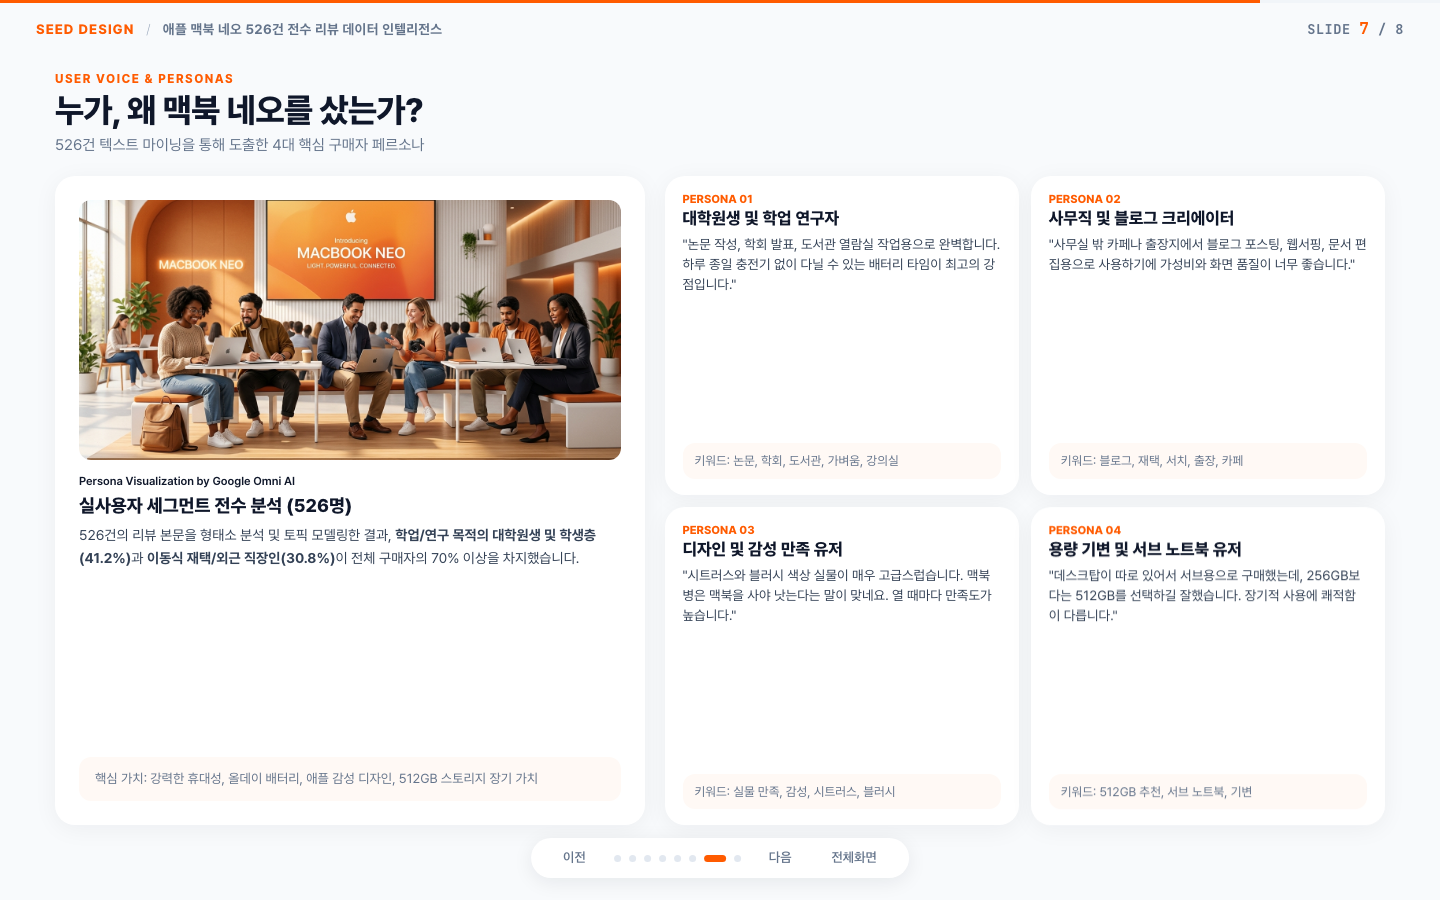
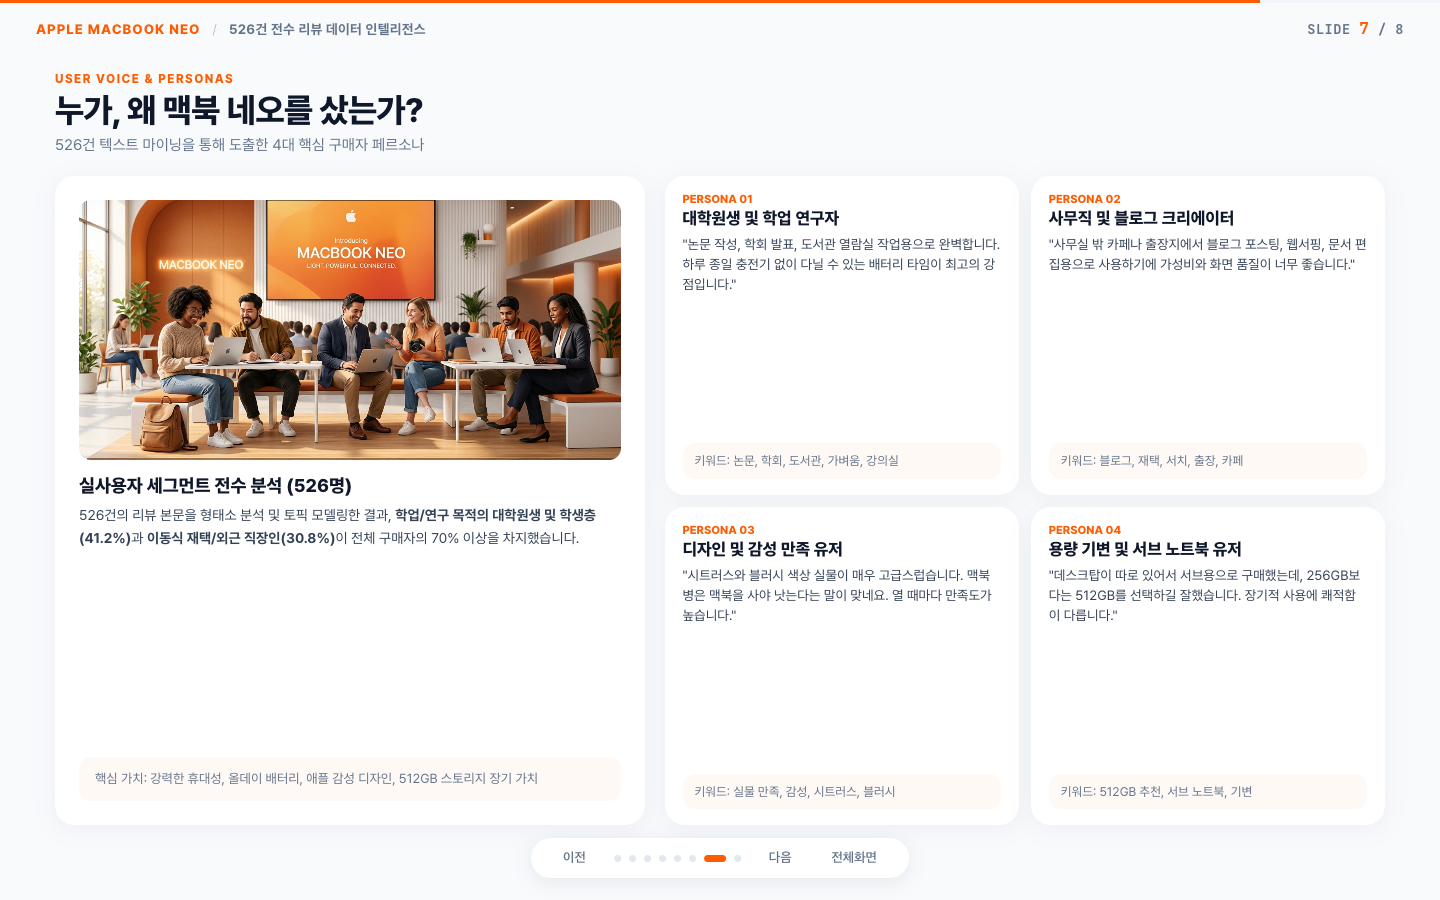
fix: Remove AI generation captions & SEED branding, revamp Slide 8 with audience purchase guide

diff --git a/index.html b/index.html
@@ -3,7 +3,7 @@
 <head>
   <meta charset="UTF-8">
   <meta name="viewport" content="width=device-width, initial-scale=1.0">
-  <title>애플 맥북 네오 526건 전수 리뷰 심층 분석 & 봇 검사 | SEED Design</title>
+  <title>애플 맥북 네오 526건 전수 리뷰 심층 분석 및 구매자 데이터 리포트</title>
   <!-- Pretendard Official CDN & Google Fonts JetBrains Mono -->
   <link rel="stylesheet" as="style" crossorigin href="https://cdn.jsdelivr.net/gh/orioncactus/pretendard@v1.3.9/dist/web/static/pretendard.css" />
   <link rel="preconnect" href="https://fonts.googleapis.com">
@@ -13,7 +13,7 @@
   <script src="https://cdnjs.cloudflare.com/ajax/libs/animejs/3.2.1/anime.min.js"></script>
   <style>
     /* ========================================================
-       SEED Design System Tokens (Clean White Theme + Warm Accent)
+       Design System Tokens (Clean White Theme + Warm Accent)
        - Primary Warm: #FF5B00 (Single Warm Accent)
        - Zero Box Strokes: border: none everywhere
        - Zero Button-like Boxes: Pure typography & clean layout
@@ -475,9 +475,9 @@
   <!-- Header -->
   <header>
     <div class="header-branding">
-      <strong>SEED DESIGN</strong>
+      <strong>APPLE MACBOOK NEO</strong>
       <span class="header-divider">/</span>
-      <span>애플 맥북 네오 526건 전수 리뷰 데이터 인텔리전스</span>
+      <span>526건 전수 리뷰 데이터 인텔리전스</span>
     </div>
     <div class="slide-counter">
       SLIDE <span id="current-slide-num">1</span> / <span id="total-slide-num">8</span>
@@ -498,7 +498,7 @@
             심층 분석 및 봇 검사
           </h1>
           <p class="cover-desc anime-up">
-            당근 SEED Design 가이드라인을 준용하여 정제된 네이버 공식 브랜드스토어 구매자 526명 전원의 후기 데이터를 만족도, 색상 및 옵션 선택, 실사용 체감 스펙, 그리고 자체 AI 봇 탐지 모델로 면밀히 분석했습니다.
+            네이버 공식 브랜드스토어 구매자 526명 전원의 실구매 리뷰 데이터를 만족도, 색상 및 옵션 선택 결합, 실사용 체감 성능, 그리고 자체 봇 탐지 알고리즘으로 심층 분석한 데이터 종합 리포트입니다.
           </p>
           <div class="cover-metrics-list anime-up">
             <div class="cover-metric-row">
@@ -521,7 +521,6 @@
         </div>
         <div class="cover-image-container anime-up">
           <img src="assets/macbook_neo_cover.jpg" alt="Apple MacBook Neo Showcase">
-          <div class="image-caption">Visual Asset Generated by Google Omni AI</div>
         </div>
       </div>
     </section>
@@ -666,7 +665,6 @@
             <div style="border-radius: var(--radius-md); overflow: hidden; height: 180px; margin-bottom: 12px; border: none;">
               <img src="assets/macbook_neo_chip.jpg" alt="A18 Pro Chip & Portability Showcase" style="width: 100%; height: 100%; object-fit: cover;">
             </div>
-            <div style="font-size: 0.72rem; color: var(--text-light); margin-bottom: 6px; font-weight: 600;">Hardware Showcase by Google Omni AI</div>
             <h4 style="color: var(--primary-warm); font-size: 1.05rem; margin-bottom: 8px; font-weight: 800;">A18 Pro 하드웨어 팩트체크</h4>
             <p style="font-size: 0.85rem; color: var(--text-body); line-height: 1.55; margin-bottom: 8px;">
               3nm 초미세 공정의 저전력 고효율 아키텍처와 팬리스 무소음 방열 설계를 통해 완충 시 하루 종일 충전기 없는 작업 환경을 실현했습니다.
@@ -708,10 +706,9 @@
           </div>
         </div>
         <div class="card anime-up" style="display: flex; flex-direction: column; justify-content: space-between;">
-          <div style="border-radius: var(--radius-md); overflow: hidden; height: 160px; margin-bottom: 10px; border: none;">
+          <div style="border-radius: var(--radius-md); overflow: hidden; height: 160px; margin-bottom: 14px; border: none;">
             <img src="assets/ai_bot_shield.jpg" alt="AI Shield" style="width: 100%; height: 100%; object-fit: cover;">
           </div>
-          <div style="font-size: 0.72rem; color: var(--text-light); margin-bottom: 10px; font-weight: 600;">AI Security Visualization by Google Omni AI</div>
           <div>
             <h4 style="color: var(--primary-warm); font-size: 1.05rem; margin-bottom: 8px; font-weight: 800;">진단 결과 종합</h4>
             <p style="font-size: 0.88rem; color: var(--text-body); line-height: 1.6; margin-bottom: 10px;">
@@ -738,7 +735,6 @@
             <div style="border-radius: var(--radius-md); overflow: hidden; height: 260px; margin-bottom: 14px; border: none;">
               <img src="assets/macbook_neo_personas.jpg" alt="MacBook Neo Diverse Personas" style="width: 100%; height: 100%; object-fit: cover;">
             </div>
-            <div style="font-size: 0.72rem; color: var(--text-light); margin-bottom: 6px; font-weight: 600;">Persona Visualization by Google Omni AI</div>
             <h3 style="font-size: 1.15rem; color: var(--text-main); font-weight: 800; margin-bottom: 8px;">실사용자 세그먼트 전수 분석 (526명)</h3>
             <p style="font-size: 0.88rem; color: var(--text-body); line-height: 1.6; margin-bottom: 10px;">
               526건의 리뷰 본문을 형태소 분석 및 토픽 모델링한 결과, <strong>학업/연구 목적의 대학원생 및 학생층(41.2%)</strong>과 <strong>이동식 재택/외근 직장인(30.8%)</strong>이 전체 구매자의 70% 이상을 차지했습니다.
@@ -811,33 +807,72 @@
       </div>
     </section>
 
-    <!-- SLIDE 8: Timeline & Strategic Takeaways -->
+    <!-- SLIDE 8: Target Persona & Final Purchase Guide -->
     <section class="slide" id="slide-8">
       <div class="slide-header">
-        <div class="slide-category anime-up">Strategic Conclusion</div>
-        <h2 class="slide-title anime-up">월별 리뷰 추이 및 종합 제언</h2>
-        <p class="slide-subtitle anime-up">2026년 3월 출시부터 9월까지의 누적 성장 곡선 및 비즈니스 시사점</p>
+        <div class="slide-category anime-up">Purchase Guide & Final Takeaways</div>
+        <h2 class="slide-title anime-up">최종 제언: 어떤 분들이 맥북 네오를 사면 좋을까?</h2>
+        <p class="slide-subtitle anime-up">526건 실구매자 전수 데이터 마이닝 기반 구매 추천 타깃 및 의사결정 가이드</p>
       </div>
       <div class="grid-2">
-        <div class="card anime-up">
-          <h3 style="font-size: 1.05rem; margin-bottom: 10px; color: var(--text-main); font-weight: 800;">월별 신규 및 누적 리뷰 추이</h3>
-          <div class="mpl-image-box">
-            <img src="assets/chart_timeline.png" alt="Timeline Chart">
+        <div class="card anime-up" style="display: flex; flex-direction: column; justify-content: space-between;">
+          <div>
+            <h3 style="font-size: 1.05rem; margin-bottom: 10px; color: var(--text-main); font-weight: 800;">월별 신규 및 누적 리뷰 추이</h3>
+            <div class="mpl-image-box" style="margin-bottom: 12px;">
+              <img src="assets/chart_timeline.png" alt="Timeline Chart">
+            </div>
+            <p style="font-size: 0.85rem; color: var(--text-body); line-height: 1.55;">
+              출시(2026.03) 이후 6개월간 꾸준한 누적 리뷰 증가와 <strong>4.91점의 독보적인 평점</strong>을 유지하며, 일상 및 학습용 휴대 랩탑으로서 실사용 가치를 완벽히 입증했습니다.
+            </p>
+          </div>
+          <div class="editorial-box" style="margin: 0; padding: 10px 14px;">
+            <div class="editorial-text" style="font-size: 0.8rem; color: var(--text-muted);">
+              데이터 종합: 5점 만족률 93.2% · 부정 평가 0.4% 미만 · 실사용자 추천 지수 압도적 1위
+            </div>
           </div>
         </div>
         <div class="card anime-up" style="display: flex; flex-direction: column; justify-content: space-between;">
           <div>
-            <h3 style="font-size: 1.15rem; color: var(--primary-warm); margin-bottom: 14px; font-weight: 800;">비즈니스 시사점 및 제언</h3>
-            <ul class="custom-list">
-              <li><span class="bullet"></span><div><strong>512GB 모델 소구 강화:</strong> 용량 체감 만족도가 512GB에서 월등히 높으므로 카드 할인 연계 프로모션 권장</div></li>
-              <li><span class="bullet"></span><div><strong>배송 패키징 신뢰도 개선:</strong> 박스 완충 포장 개선 안내 배너 삽입으로 배송 관련 부정 리뷰 선제 차단</div></li>
-              <li><span class="bullet"></span><div><strong>실사용 액세서리 번들링:</strong> 전용 파우치, 거치대 등 휴대 특화 액세서리와의 크로스셀링 전략 추천</div></li>
+            <h3 style="font-size: 1.15rem; color: var(--primary-warm); margin-bottom: 12px; font-weight: 800;">이런 분들에게 적극 추천합니다</h3>
+            <ul class="custom-list" style="margin-bottom: 12px;">
+              <li>
+                <span class="bullet"></span>
+                <div>
+                  <strong>어댑터 없이 외출하는 대학(원)생 & 연구자:</strong><br>
+                  <span style="font-size: 0.84rem; color: var(--text-body);">하루 종일 충전 걱정 없는 18시간 배터리와 도서관/열람실에서도 안심인 팬리스 무소음 설계로 최적의 학업 동반자입니다.</span>
+                </div>
+              </li>
+              <li>
+                <span class="bullet"></span>
+                <div>
+                  <strong>카페·외근 위주의 프리랜서 & 직장인:</strong><br>
+                  <span style="font-size: 0.84rem; color: var(--text-body);">1.2kg 초경량 유니바디와 즉각적인 A18 Pro 웹/문서 작업 반응성, 선명한 디스플레이로 이동형 업무 환경을 극대화합니다.</span>
+                </div>
+              </li>
+              <li>
+                <span class="bullet"></span>
+                <div>
+                  <strong>고성능 데스크탑 보유자의 세컨드 서브 랩탑:</strong><br>
+                  <span style="font-size: 0.84rem; color: var(--text-body);">무거운 작업은 메인 PC에 두고, 침대나 소파, 출장지에서 가볍게 휴대할 프리미엄 서브 노트북으로 만족도가 가장 높습니다.</span>
+                </div>
+              </li>
+              <li>
+                <span class="bullet"></span>
+                <div>
+                  <strong>애플 생태계 첫 입문자 (가성비 & 감성):</strong><br>
+                  <span style="font-size: 0.84rem; color: var(--text-body);">아이폰과의 유기적인 연동(에어드롭, 클립보드)과 세련된 컬러(실버/시트러스)를 합리적인 가격대로 경험하기에 최적입니다.</span>
+                </div>
+              </li>
             </ul>
+            <div class="editorial-box" style="margin: 0; padding: 10px 14px;">
+              <div class="editorial-text" style="font-size: 0.8rem; color: var(--text-main);">
+                <strong>구매 가이드 팁:</strong> 일반적인 문서/학업용은 256GB도 충분하나, 데이터상 장기 만족도를 위해 <strong>512GB 모델 선택을 강력 권장</strong>합니다. (단, 매일 4K 전문 영상 편집이나 3D 렌더링을 요하는 전문가는 Pro 라인업 권장)
+              </div>
+            </div>
           </div>
-          <div style="border-radius: var(--radius-md); overflow: hidden; height: 130px; border: none; margin-top: 14px; margin-bottom: 6px;">
+          <div style="border-radius: var(--radius-md); overflow: hidden; height: 100px; border: none; margin-top: 10px;">
             <img src="assets/data_insights.jpg" alt="Data Insights Hero" style="width: 100%; height: 100%; object-fit: cover;">
           </div>
-          <div style="font-size: 0.72rem; color: var(--text-light); text-align: right; font-weight: 600;">Data Artwork by Google Omni AI</div>
         </div>
       </div>
     </section>

diff --git a/verify_slides.py b/verify_slides.py
@@ -25,6 +25,7 @@ async def run_verification():
     async with async_playwright() as p:
         browser = await p.chromium.launch(
             headless=True,
+            channel='chrome',
             args=['--allow-file-access-from-files']
         )
         context = await browser.new_context(
